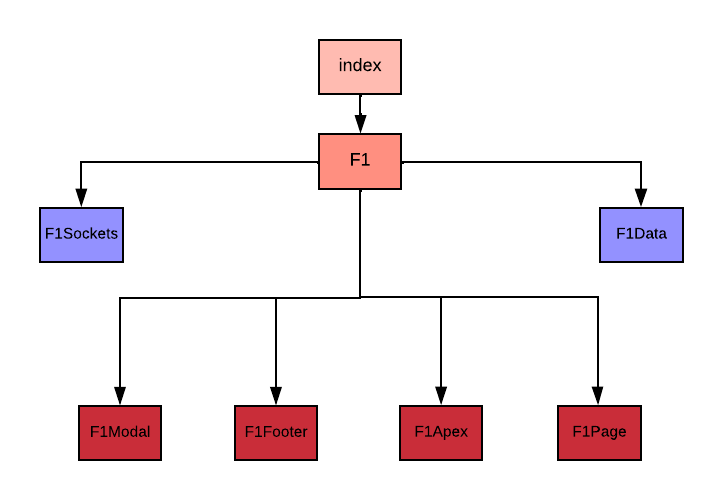
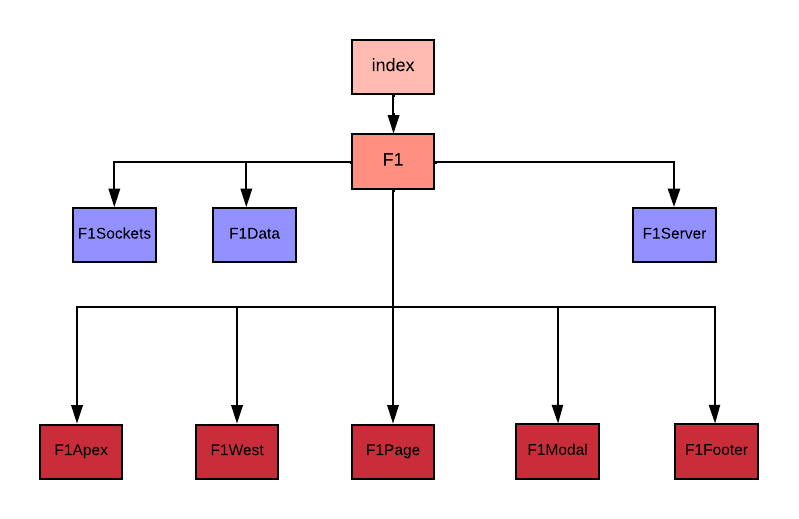
auto-commit

Changed region(s): [[0.0304, 0.0599, 0.9737, 0.9281], [0.0304, 0.3593, 0.213, 0.5389], [0.7911, 0.3593, 0.9433, 0.5389]]

diff --git a/F1/F1.jsx b/F1/F1.jsx
@@ -20,14 +20,11 @@ export default function F1 () {
   console.logD('DEBUG: L1 : F1');
   return (
     <div id="app_hold">
-
-      {/* The core structure of the application is constructed with these components */}
       <F1Apex />
       <F1West />
       <F1Page />
       <F1Modal />
       <F1Footer config={config} />
-
     </div>
   );
 };
